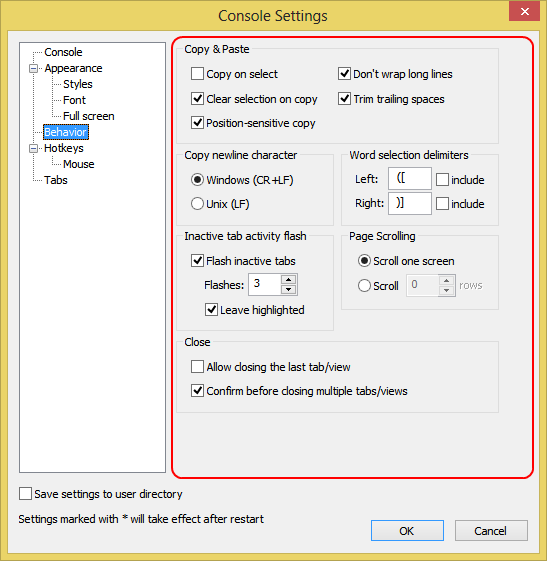
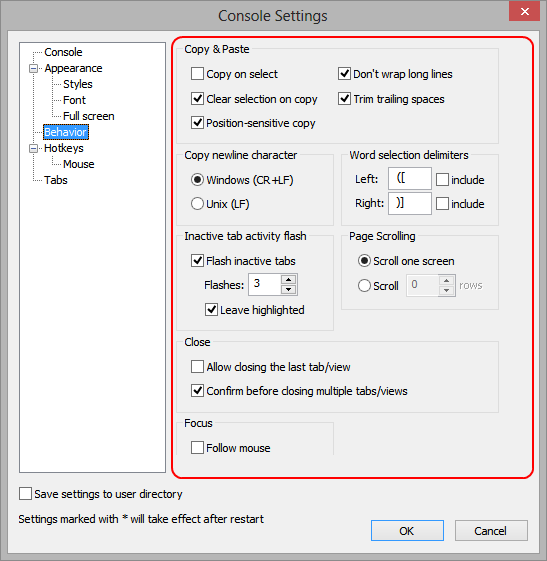
#35 Focus follows mouses

Changed region(s): [[0.0, 0.0, 1.0, 1.0], [0.3419, 0.7273, 0.4973, 0.8182]]

diff --git a/help/html/settings_behavior.html b/help/html/settings_behavior.html
@@ -133,6 +133,13 @@
 		If checked, a confirmation message is displayed before closing multiple tabs/views.
 	</p>
 
+	<h2>Focus</h2>
+
+	<p class="block-row-name">Follow mouse</p>
+	<p class="block-row-description">
+		If checked, the view, where mouse is hover, has the focus.
+	</p>
+
 	<br />
 </body>
 

diff --git a/Console/SettingsHandler.cpp b/Console/SettingsHandler.cpp
@@ -1051,11 +1051,11 @@ CloseSettings::CloseSettings()
 
 bool CloseSettings::Load(const CComPtr<IXMLDOMElement>& pSettingsRoot)
 {
-	CComPtr<IXMLDOMElement>	pAppearanceElement;
+	CComPtr<IXMLDOMElement>	pBehaviorElement;
 	CComPtr<IXMLDOMElement>	pCloseElement;
 
-	if (FAILED(XmlHelper::GetDomElement(pSettingsRoot, CComBSTR(L"behavior"), pAppearanceElement))) return false;
-	if (FAILED(XmlHelper::AddDomElementIfNotExist(pAppearanceElement, CComBSTR(L"close"), pCloseElement))) return false;
+	if (FAILED(XmlHelper::GetDomElement(pSettingsRoot, CComBSTR(L"behavior"), pBehaviorElement))) return false;
+	if (FAILED(XmlHelper::AddDomElementIfNotExist(pBehaviorElement, CComBSTR(L"close"), pCloseElement))) return false;
 
 	XmlHelper::GetAttribute(pCloseElement, CComBSTR(L"allow_closing_last_view"),        bAllowClosingLastView,        false);
 	XmlHelper::GetAttribute(pCloseElement, CComBSTR(L"confirm_closing_multiple_views"), bConfirmClosingMultipleViews, true);
@@ -1103,6 +1103,67 @@ CloseSettings& CloseSettings::operator=(const CloseSettings& other)
 
 //////////////////////////////////////////////////////////////////////////////
 
+FocusSettings::FocusSettings()
+	: bFollowMouse(false)
+{
+}
+
+//////////////////////////////////////////////////////////////////////////////
+
+
+//////////////////////////////////////////////////////////////////////////////
+
+bool FocusSettings::Load(const CComPtr<IXMLDOMElement>& pSettingsRoot)
+{
+	CComPtr<IXMLDOMElement>	pBehaviorElement;
+	CComPtr<IXMLDOMElement>	pFocusElement;
+
+	if (FAILED(XmlHelper::GetDomElement(pSettingsRoot, CComBSTR(L"behavior"), pBehaviorElement))) return false;
+	if (FAILED(XmlHelper::AddDomElementIfNotExist(pBehaviorElement, CComBSTR(L"focus"), pFocusElement))) return false;
+
+	XmlHelper::GetAttribute(pFocusElement, CComBSTR(L"follow_mouse"), bFollowMouse, false);
+
+	return true;
+}
+
+//////////////////////////////////////////////////////////////////////////////
+
+
+//////////////////////////////////////////////////////////////////////////////
+
+bool FocusSettings::Save(const CComPtr<IXMLDOMElement>& pSettingsRoot)
+{
+	CComPtr<IXMLDOMElement>	pFocusElement;
+
+	if (FAILED(XmlHelper::GetDomElement(pSettingsRoot, CComBSTR(L"behavior/focus"), pFocusElement))) return false;
+
+	XmlHelper::SetAttribute(pFocusElement, CComBSTR(L"follow_mouse"), bFollowMouse);
+
+	return true;
+}
+
+//////////////////////////////////////////////////////////////////////////////
+
+
+//////////////////////////////////////////////////////////////////////////////
+
+FocusSettings& FocusSettings::operator=(const FocusSettings& other)
+{
+	bFollowMouse = other.bFollowMouse;
+
+	return *this;
+}
+
+//////////////////////////////////////////////////////////////////////////////
+
+
+//////////////////////////////////////////////////////////////////////////////
+//////////////////////////////////////////////////////////////////////////////
+//////////////////////////////////////////////////////////////////////////////
+
+
+//////////////////////////////////////////////////////////////////////////////
+
 BehaviorSettings::BehaviorSettings()
 {
 }
@@ -1118,6 +1179,8 @@ bool BehaviorSettings::Load(const CComPtr<IXMLDOMElement>& pSettingsRoot)
 	scrollSettings.Load(pSettingsRoot);
 	tabHighlightSettings.Load(pSettingsRoot);
 	closeSettings.Load(pSettingsRoot);
+	focusSettings.Load(pSettingsRoot);
+
 	return true;
 }
 
@@ -1132,6 +1195,8 @@ bool BehaviorSettings::Save(const CComPtr<IXMLDOMElement>& pSettingsRoot)
 	scrollSettings.Save(pSettingsRoot);
 	tabHighlightSettings.Save(pSettingsRoot);
 	closeSettings.Save(pSettingsRoot);
+	focusSettings.Save(pSettingsRoot);
+
 	return true;
 }
 
@@ -1146,6 +1211,7 @@ BehaviorSettings& BehaviorSettings::operator=(const BehaviorSettings& other)
 	scrollSettings       = other.scrollSettings;
 	tabHighlightSettings = other.tabHighlightSettings;
 	closeSettings        = other.closeSettings;
+	focusSettings        = other.focusSettings;
 
 	return *this;
 }

diff --git a/Console/ConsoleView.cpp b/Console/ConsoleView.cpp
@@ -44,6 +44,7 @@ ConsoleView::ConsoleView(MainFrame& mainFrame, HWND hwndTabView, std::shared_ptr
 , m_bResizing(false)
 , m_bAppActive(true)
 , m_bActive(true)
+, m_bMouseTracking(false)
 , m_bNeedFullRepaint(true) // first OnPaint will do a full repaint
 , m_bUseTextAlphaBlend(false)
 , m_bConsoleWindowVisible(false)
@@ -714,11 +715,41 @@ LRESULT ConsoleView::OnMouseMove(UINT uMsg, WPARAM wParam, LPARAM lParam, BOOL& 
 	}
 	else
 	{
+		if( !m_bMouseTracking )
+		{
+			TRACKMOUSEEVENT params;
+			params.cbSize = sizeof(TRACKMOUSEEVENT);
+			params.dwFlags = TME_LEAVE;
+			params.hwndTrack = m_hWnd;
+			params.dwHoverTime = HOVER_DEFAULT;
+			if( ::TrackMouseEvent(&params) )
+			{
+				TRACE(L"onhover %p\n", m_hWnd);
+				if( g_settingsHandler->GetBehaviorSettings().focusSettings.bFollowMouse )
+					m_mainFrame.SetActiveConsole(m_hwndTabView, m_hWnd);
+				m_bMouseTracking = true;
+			}
+		}
+
 		bHandled = FALSE;
 	}
 
 	return 0;
 }
+
+//////////////////////////////////////////////////////////////////////////////
+
+
+//////////////////////////////////////////////////////////////////////////////
+
+LRESULT ConsoleView::OnMouseLeave(UINT /*uMsg*/, WPARAM /*wParam*/, LPARAM /*lParam*/, BOOL& /*bHandled*/)
+{
+	TRACE(L"onleave %p\n", m_hWnd);
+	m_bMouseTracking = false;
+
+	return 0;
+}
+
 
 //////////////////////////////////////////////////////////////////////////////
 

diff --git a/Console/ConsoleView.h b/Console/ConsoleView.h
@@ -62,6 +62,7 @@ class ConsoleView
 			MESSAGE_HANDLER(WM_XBUTTONDOWN, OnMouseButton)
 			MESSAGE_HANDLER(WM_XBUTTONUP, OnMouseButton)
 			MESSAGE_HANDLER(WM_MOUSEMOVE, OnMouseMove)
+			MESSAGE_HANDLER(WM_MOUSELEAVE, OnMouseLeave)
 			MESSAGE_HANDLER(WM_MOUSEACTIVATE, OnMouseActivate)
 			MESSAGE_HANDLER(WM_TIMER, OnTimer)
 			MESSAGE_HANDLER(WM_INPUTLANGCHANGEREQUEST, OnInputLangChangeRequest)
@@ -86,6 +87,7 @@ class ConsoleView
 		LRESULT OnHScroll(UINT /*uMsg*/, WPARAM wParam, LPARAM /*lParam*/, BOOL& /*bHandled*/);
 		LRESULT OnMouseButton(UINT uMsg, WPARAM wParam, LPARAM lParam, BOOL& /*bHandled*/);
 		LRESULT OnMouseMove(UINT uMsg, WPARAM wParam, LPARAM lParam, BOOL& bHandled);
+		LRESULT OnMouseLeave(UINT uMsg, WPARAM wParam, LPARAM lParam, BOOL& bHandled);
 		LRESULT OnMouseWheel(UINT uMsg, WPARAM wParam, LPARAM lParam, BOOL& /*bHandled*/);
 		LRESULT OnMouseActivate(UINT uMsg, WPARAM wParam, LPARAM lParam, BOOL& /*bHandled*/);
 		LRESULT OnTimer(UINT /*uMsg*/, WPARAM wParam, LPARAM /*lParam*/, BOOL& /*bHandled*/);
@@ -181,10 +183,11 @@ class ConsoleView
 		bool	m_bResizing;
 		bool	m_bAppActive;
 		bool	m_bActive;
+		bool	m_bMouseTracking;
 		bool	m_bNeedFullRepaint;
 		bool	m_bUseTextAlphaBlend;
 		bool	m_bConsoleWindowVisible;
-    bool  m_boolIsGrouped;
+		bool  m_boolIsGrouped;
 
 		DWORD	m_dwStartupRows;
 		DWORD	m_dwStartupColumns;

diff --git a/Console/SettingsHandler.h b/Console/SettingsHandler.h
@@ -375,6 +375,22 @@ struct CloseSettings : public SettingsBase
 	bool bConfirmClosingMultipleViews;
 };
 
+//////////////////////////////////////////////////////////////////////////////
+
+
+//////////////////////////////////////////////////////////////////////////////
+
+struct FocusSettings : public SettingsBase
+{
+	FocusSettings();
+
+	bool Load(const CComPtr<IXMLDOMElement>& pSettingsRoot);
+	bool Save(const CComPtr<IXMLDOMElement>& pSettingsRoot);
+
+	FocusSettings& operator=(const FocusSettings& other);
+
+	bool bFollowMouse;
+};
 
 //////////////////////////////////////////////////////////////////////////////
 
@@ -394,6 +410,7 @@ struct BehaviorSettings : public SettingsBase
 	ScrollSettings       scrollSettings;
 	TabHighlightSettings tabHighlightSettings;
 	CloseSettings        closeSettings;
+	FocusSettings        focusSettings;
 };
 
 //////////////////////////////////////////////////////////////////////////////

diff --git a/Console/resource.h b/Console/resource.h
@@ -261,6 +261,7 @@
 #define IDC_SPIN_FONT_EXTRAWIDTH        1194
 #define IDC_CHECK_RUN_AS_ADMIN          1195
 #define IDC_CHECK_RUN_AS_CURRENT_USER   1196
+#define IDC_CHECK_FOCUS_FOLLOW_MOUSE    1197
 #define ID_NEW_TAB_1                    2000
 #define ID_SWITCH_TAB_1                 2100
 #define ID_NEXT_TAB                     2200
@@ -315,7 +316,7 @@
 #ifndef APSTUDIO_READONLY_SYMBOLS
 #define _APS_NEXT_RESOURCE_VALUE        219
 #define _APS_NEXT_COMMAND_VALUE         32797
-#define _APS_NEXT_CONTROL_VALUE         1197
+#define _APS_NEXT_CONTROL_VALUE         1198
 #define _APS_NEXT_SYMED_VALUE           101
 #endif
 #endif

diff --git a/Console/DlgSettingsBehavior.h b/Console/DlgSettingsBehavior.h
@@ -40,6 +40,8 @@ class DlgSettingsBehavior
 			DDX_CHECK(IDC_CHECK_CLOSING_LAST_TAB, m_behaviorSettings.closeSettings.bAllowClosingLastView)
 			DDX_CHECK(IDC_CHECK_CONFIRM_CLOSE_MULTI, m_behaviorSettings.closeSettings.bConfirmClosingMultipleViews)
 
+			DDX_CHECK(IDC_CHECK_FOCUS_FOLLOW_MOUSE, m_behaviorSettings.focusSettings.bFollowMouse)
+
 		END_DDX_MAP()
 
 		BEGIN_MSG_MAP(DlgSettingsBehavior)
